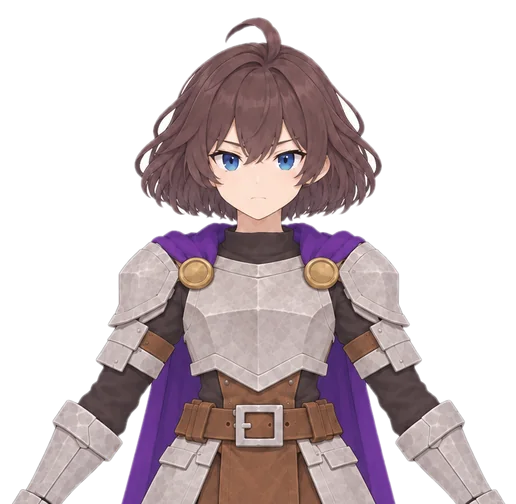
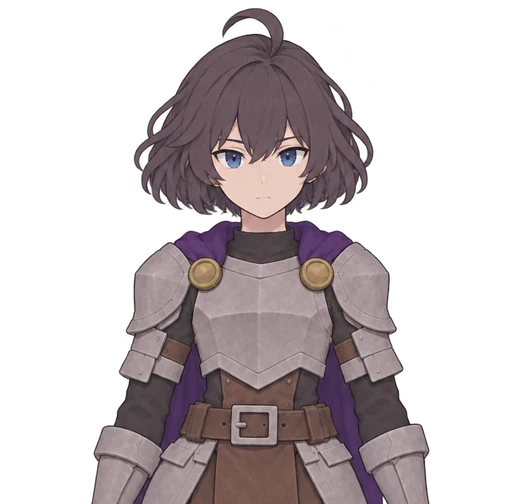
Judgment leap closes to striking distance; new hero dialogue portrait
The heavy strike's step was a fixed 0.9 m, so from 2-4 m a standing fox
ended up short of (or behind) the descending blade. A lunge with reach now
closes to 'stop' from the foe it was aimed at (up to 2.8 m).

Claude-Session: https://claude.ai/code/session_01VWm1t4NCURbVupMSeNdmXc

diff --git a/ArcherPreview/src/main.js b/ArcherPreview/src/main.js
@@ -191,7 +191,7 @@ const villageForceMobile=villageReviewEnabled&&new URLSearchParams(location.sear
 let villageReview;
 let engine, world, actor, controller, animator, container, config, input, reviewFocus, cameraZoom, cameraPitch, cameraPitchControls, cameraFollow;
 let ready = false, loadingAsset = false, maxInfluences = 0, statusTime = 0, elapsed = 0;
-const lungeState={id:null,done:0};
+const lungeState={id:null,done:0,span:0};
 let boss, combatResult, swordNode, shieldNode, damageNumbers, frameLoop, swordTrail,meleeAim,meleeAimDt=1/60;
 const meleeTargetPoint=new Vector3();
 const staminaFeedback=new StaminaFailureFeedback();
@@ -934,8 +934,12 @@ function render(dt) {
     // eased over the opening of the clip, stopping short of the nearest foe.
     const lunge=world.v03?.lunge?.[result.state];
     if(isV2()&&lunge&&attacking&&result.actionId!=null&&!result.hitStopped){
-      if(lungeState.id!==result.actionId){lungeState.id=result.actionId;lungeState.done=0;}
-      const duration=controller.durations?.[result.state]||1,f=Math.min(1,(result.clipTime??0)/(duration*lunge.until)),want=lunge.distance*(1-(1-f)**2)*playerDimensions(actor).ratio;
+      // A lunge with reach (the judgment leap) closes to its striking distance
+      // from the foe it was aimed at, as the light combo tracks height: a fixed
+      // step left a standing fox short of (or behind) the descending blade.
+      if(lungeState.id!==result.actionId){lungeState.id=result.actionId;lungeState.done=0;const foe=lunge.reach?boss.nearestTarget(actor.position):null,ratio=playerDimensions(actor).ratio,gap=foe?.actor?Vector3.Distance(actor.position,foe.actor.position):Infinity;
+        lungeState.span=gap<lunge.reach*ratio+(lunge.stop??1.3)?Math.max(0,gap-(lunge.stop??1.3)):lunge.distance*ratio;}
+      const duration=controller.durations?.[result.state]||1,f=Math.min(1,(result.clipTime??0)/(duration*lunge.until)),want=lungeState.span*(1-(1-f)**2);
       let step=want-lungeState.done;lungeState.done=want;
       const target=boss.nearestTarget(actor.position);
       if(target?.actor)step=Math.min(step,Math.max(0,Vector3.Distance(actor.position,target.actor.position)-(lunge.stop??1.3)));

diff --git a/ArcherPreview/src/v03/story.js b/ArcherPreview/src/v03/story.js
@@ -388,7 +388,7 @@ export function createStory({api,doc,save,content,createVisual,createGuide=null,
  // Normal combo hits flinch smaller foes and push them back ~0.4 m; the
  // warrior steps forward into each swing (main.js reads lunge per state).
  const LIGHT_HIT=Object.freeze({push:2.5,skip:Object.freeze(['bear','elena','mourning-elena'])});
- const LUNGE=Object.freeze({slash:{distance:.55,until:.35},attack:{distance:.7,until:.35},judgment:{distance:.9,until:.3}});
+ const LUNGE=Object.freeze({slash:{distance:.55,until:.35},attack:{distance:.7,until:.35},judgment:{distance:.9,until:.3,reach:2.8,stop:1.25}});
  const JUST_WINDOW=.25,JUST_STAGGER=1.6,JUST_REFUND=20,JUST_SLOW=.4;
  const combatState={controller:null,combat:null,justCount:0};
  function configureCombat(){

diff --git a/Docs/0.3/CHANGELOG.md b/Docs/0.3/CHANGELOG.md
@@ -94,3 +94,5 @@
 - 촌장 의뢰(짐승 3마리)에서 평원 몬스터가 50초 넘게 안 나오던 문제: '아무 짐승 N마리' 단계에서도 다음 전투 지점(곰 언덕)부터 준비하고 있었음 → 플레이어 근처 무리부터 준비. 지형 압축 해제 캐시 8→24MiB(5분에 3.6천 번 밀려나던 것).
 - 강공격(심판)이 서 있는 여우에게 안 맞던 문제: 조준(적 높이 맞춤)을 공격 시작 순간 3m 안에 있는 적에게만 걸고 있었음. 도약으로 거리를 좁히는 동안에도 3m 안에 들어오면 조준을 붙임.
 - 로딩 카드에 빛가루·느린 숨쉬기 효과.
+- 강공격 도약이 겨눈 적 앞(1.25m)까지 거리를 맞춰 들어감(최대 2.8m). 고정 0.9m라 서 있는 여우 앞에서 모자라거나 지나쳤음.
+- 주인공 대화 일러스트 교체(새 원화, webp).
